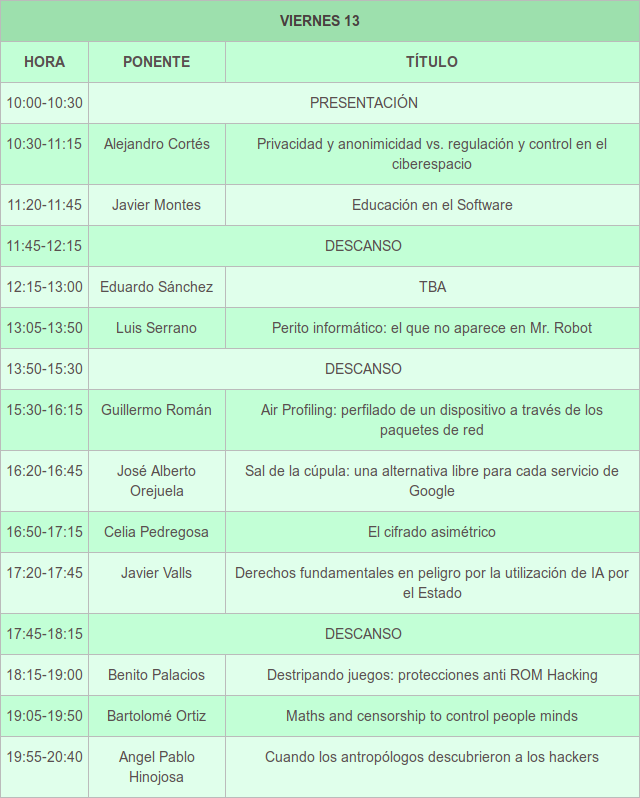
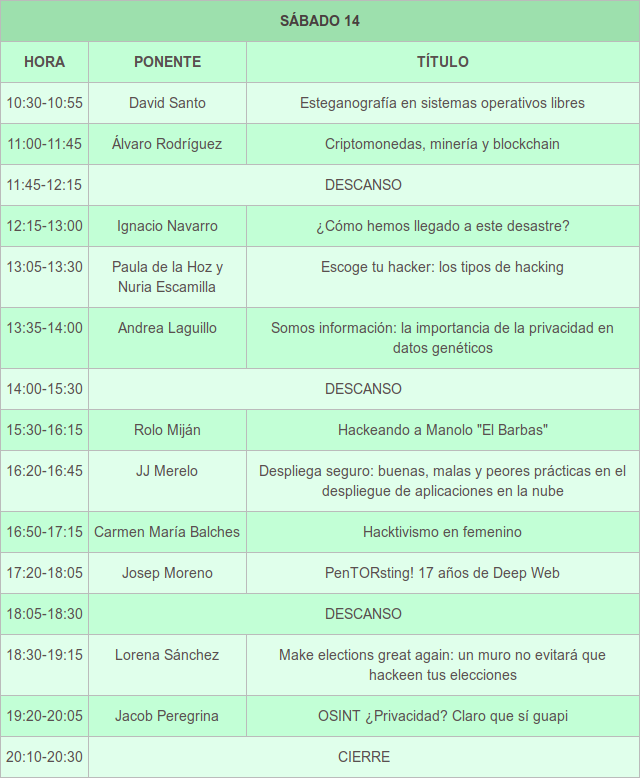
Corrige horarios

diff --git a/_pages/jasyp/jasyp.md b/_pages/jasyp/jasyp.md
@@ -829,76 +829,80 @@ Las JASYP de este año están enfocadas en 3 bloques:
         <td class="tg-41e9">PONENTE</td>
         <td class="tg-41e9">TÍTULO</td>
       </tr>
-      <tr>
-        <td class="tg-baqh">10:00-10:30</td>
-        <td class="tg-baqh" colspan="2">PRESENTACIÓN</td>
+            <tr>
+        <td class="tg-0l6a">10:00-10:20</td>
+        <td class="tg-0l6a" colspan="2">APERTURA</td>
       </tr>
       <tr>
-        <td class="tg-0l6a">10:30-11:15</td>
-        <td class="tg-0l6a">Alejandro Cortés</td>
-        <td class="tg-0l6a">Privacidad y anonimicidad vs. regulación y control en el ciberespacio </td>
+        <td class="tg-0l6a">10:20-10:45</td>
+        <td class="tg-0l6a" colspan="2">PRESENTACIÓN</td>
       </tr>
       <tr>
-        <td class="tg-baqh">11:20-11:45</td>
-        <td class="tg-baqh">Javier Montes</td>
-        <td class="tg-baqh">Educación en el Software</td>
+        <td class="tg-baqh">10:50-11:15</td>
+        <td class="tg-baqh">Alejandro Cortés</td>
+        <td class="tg-baqh">Privacidad y anonimicidad vs. regulación y control en el ciberespacio </td>
       </tr>
       <tr>
-        <td class="tg-0l6a">11:45-12:15</td>
-        <td class="tg-0l6a" colspan="2">DESCANSO</td>
+        <td class="tg-0l6a">11:20-11:45</td>
+        <td class="tg-0l6a">Javier Montes</td>
+        <td class="tg-0l6a">Educación en el Software</td>
       </tr>
       <tr>
-        <td class="tg-baqh">12:15-13:00</td>
-        <td class="tg-baqh">Eduardo Sánchez</td>
-        <td class="tg-baqh">TBA</td>
-      </tr>
-      <tr>
-        <td class="tg-0l6a">13:05-13:50</td>
-        <td class="tg-0l6a">Luis Serrano</td>
-        <td class="tg-0l6a">Perito informático: el que no aparece en Mr. Robot</td>
-      </tr>
-      <tr>
-        <td class="tg-baqh">13:50-15:30</td>
+        <td class="tg-baqh">11:45-12:15</td>
         <td class="tg-baqh" colspan="2">DESCANSO</td>
       </tr>
       <tr>
-        <td class="tg-0l6a">15:30-16:15</td>
-        <td class="tg-0l6a">Guillermo Román</td>
-        <td class="tg-0l6a">Air Profiling: perfilado de un dispositivo a través de los paquetes de red</td>
+        <td class="tg-0l6a">12:15-13:00</td>
+        <td class="tg-0l6a">Eduardo Sánchez</td>
+        <td class="tg-0l6a">TBA</td>
       </tr>
       <tr>
-        <td class="tg-baqh">16:20-16:45</td>
-        <td class="tg-baqh">José Alberto Orejuela</td>
-        <td class="tg-baqh">Sal de la cúpula: una alternativa libre para cada servicio de Google</td>
+        <td class="tg-baqh">13:05-13:50</td>
+        <td class="tg-baqh">Luis Serrano</td>
+        <td class="tg-baqh">Perito informático: el que no aparece en Mr. Robot</td>
       </tr>
       <tr>
-        <td class="tg-0l6a">16:50-17:15</td>
-        <td class="tg-0l6a">Celia Pedregosa</td>
-        <td class="tg-0l6a">El cifrado asimétrico</td>
-      </tr>
-      <tr>
-        <td class="tg-baqh">17:20-17:45</td>
-        <td class="tg-baqh">Javier Valls</td>
-        <td class="tg-baqh">Derechos fundamentales en peligro por la utilización de IA por el Estado</td>
-      </tr>
-      <tr>
-        <td class="tg-0l6a">17:45-18:15</td>
+        <td class="tg-0l6a">14:00-15:30</td>
         <td class="tg-0l6a" colspan="2">DESCANSO</td>
       </tr>
       <tr>
-        <td class="tg-baqh">18:15-19:00</td>
-        <td class="tg-baqh">Benito Palacios</td>
-        <td class="tg-baqh">Destripando juegos: protecciones anti ROM Hacking</td>
+        <td class="tg-baqh">15:30-16:15</td>
+        <td class="tg-baqh">Guillermo Román</td>
+        <td class="tg-baqh">Air Profiling: perfilado de un dispositivo a través de los paquetes de red</td>
       </tr>
       <tr>
-        <td class="tg-0l6a">19:05-19:50</td>
-        <td class="tg-0l6a">Bartolomé Ortiz</td>
-        <td class="tg-0l6a">Maths and censorship to control people minds</td>
+        <td class="tg-0l6a">16:20-16:45</td>
+        <td class="tg-0l6a">José Alberto Orejuela</td>
+        <td class="tg-0l6a">Sal de la cúpula: una alternativa libre para cada servicio de Google</td>
       </tr>
       <tr>
-        <td class="tg-baqh">19:55-20:40</td>
-        <td class="tg-baqh">Angel Pablo Hinojosa</td>
-        <td class="tg-baqh">Cuando los antropólogos descubrieron a los hackers</td>
+        <td class="tg-baqh">16:50-17:15</td>
+        <td class="tg-baqh">Celia Pedregosa</td>
+        <td class="tg-baqh">El cifrado asimétrico</td>
+      </tr>
+      <tr>
+        <td class="tg-0l6a">17:20-17:45</td>
+        <td class="tg-0l6a">Javier Valls</td>
+        <td class="tg-0l6a">Derechos fundamentales en peligro por la utilización de IA por el Estado</td>
+      </tr>
+      <tr>
+        <td class="tg-baqh">17:45-18:15</td>
+        <td class="tg-baqh" colspan="2">DESCANSO</td>
+      </tr>
+      <tr>
+        <td class="tg-0l6a">18:15-19:00</td>
+        <td class="tg-0l6a">Benito Palacios</td>
+        <td class="tg-0l6a">Destripando juegos: protecciones anti ROM Hacking</td>
+      </tr>
+      <tr>
+        <td class="tg-baqh">19:05-19:50</td>
+        <td class="tg-baqh">Bartolomé Ortiz</td>
+        <td class="tg-baqh">Maths and censorship to control people minds</td>
+      </tr>
+      <tr>
+        <td class="tg-0l6a">19:55-20:40</td>
+        <td class="tg-0l6a">Angel Pablo Hinojosa</td>
+        <td class="tg-0l6a">Cuando los antropólogos descubrieron a los hackers</td>
       </tr>
     </table>
     </div>
